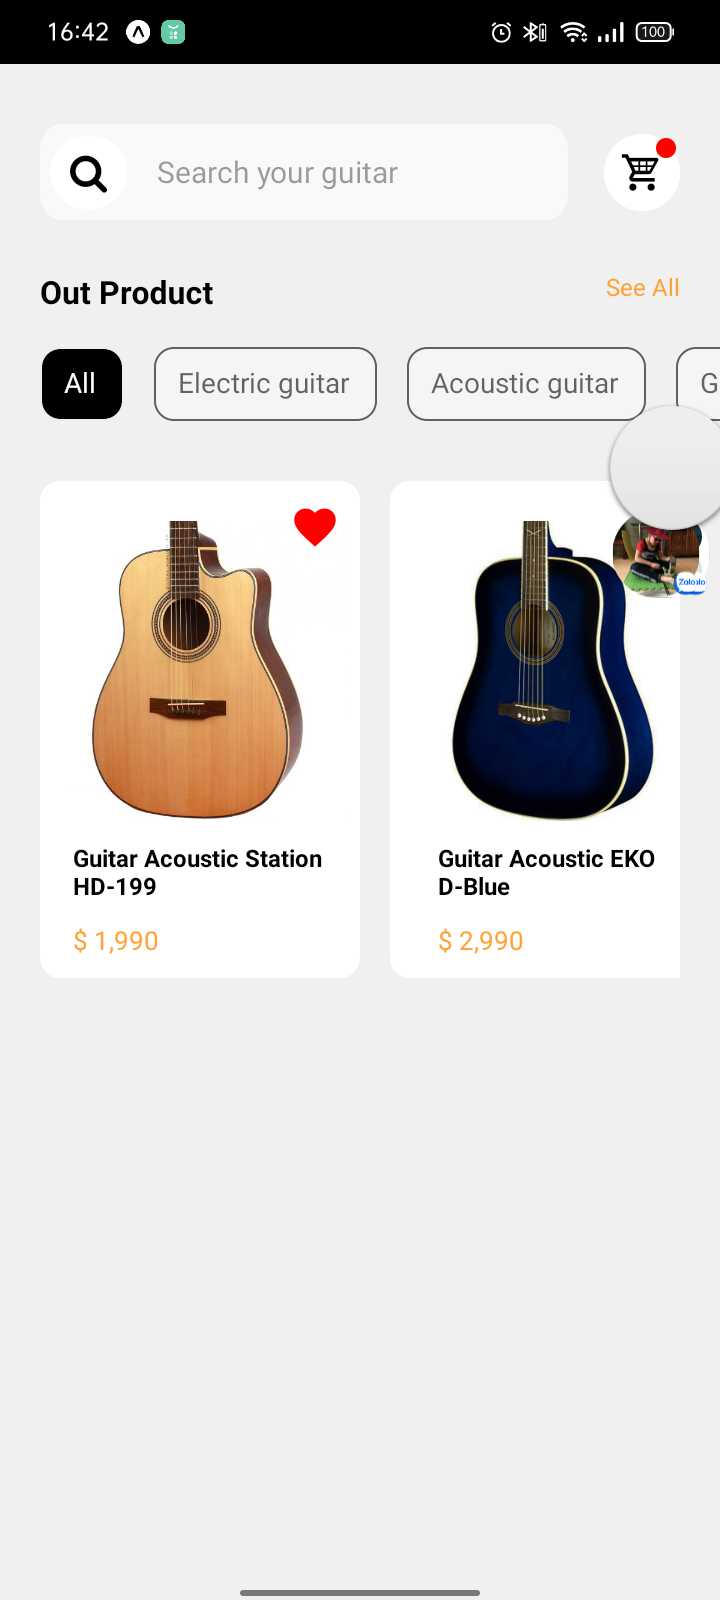
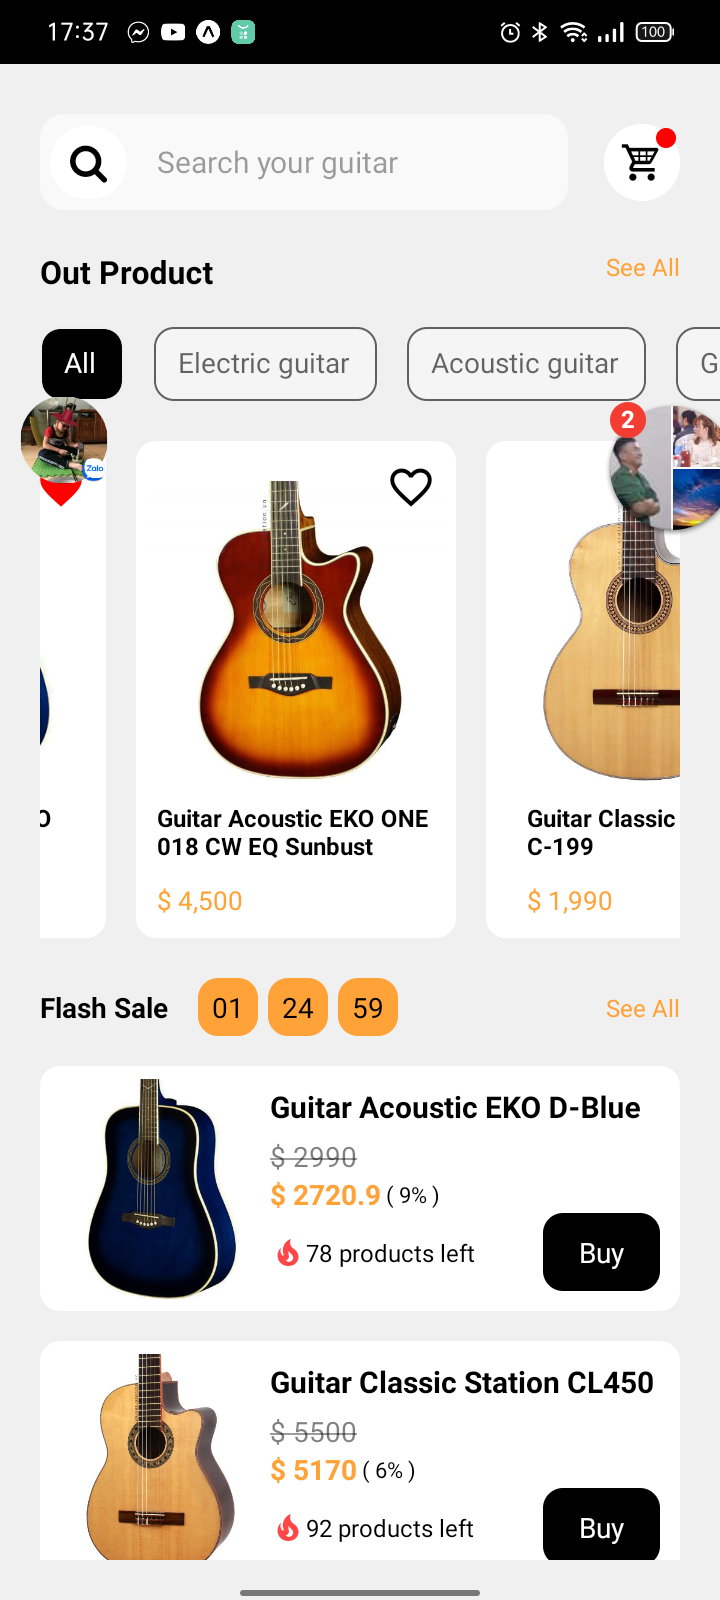
add flatlist Sale (finish screen3 75%)

diff --git a/src/components/ComponenHome.js b/src/components/ComponenHome.js
@@ -16,6 +16,11 @@ const ComponenHome = ({ navigation }) => {
     //
     let { z_item, listItem } = data;
 
+
+    let spConlai = () => {
+        return Math.floor(Math.random() * (100 - 50)) + 50;
+    };
+
     //
     useEffect(() => {
         setDbGuitar(listItem)
@@ -45,8 +50,7 @@ const ComponenHome = ({ navigation }) => {
                             str += key + "";
                         }
 
-                        if(x == 3)
-                        {
+                        if (x == 3) {
                             x = 0;
                         }
                         break;
@@ -59,8 +63,7 @@ const ComponenHome = ({ navigation }) => {
                             str += key + "";
                         }
 
-                        if(x == 3)
-                        {
+                        if (x == 3) {
                             x = 0;
                         }
                         break;
@@ -73,8 +76,7 @@ const ComponenHome = ({ navigation }) => {
                             str += key + "";
                         }
 
-                        if(x == 3)
-                        {
+                        if (x == 3) {
                             x = 0;
                         }
                         break;
@@ -83,7 +85,7 @@ const ComponenHome = ({ navigation }) => {
                         str += key;
                         break;
                 }
-                i++ ;
+                i++;
             }
         }
 
@@ -120,8 +122,45 @@ const ComponenHome = ({ navigation }) => {
                 }]}
 
                 >
-                    <IconMaterialCommunityIcons name={item.favourite ?'heart':'heart-outline' } size={25} color={item.favourite ?'#f00':'#000' } />
+                    <IconMaterialCommunityIcons name={item.favourite ? 'heart' : 'heart-outline'} size={25} color={item.favourite ? '#f00' : '#000'} />
                 </TouchableOpacity>
+            </View>
+        )
+    }
+
+    const renderItemSale = ({ item }) => {
+
+
+        if (!item.favourite) {
+            return (
+                <View></View>
+            )
+        }
+
+        return (
+            <View style={[styles.row, {
+                backgroundColor: '#fff',
+                padding: 5,
+                borderRadius: 10,
+                alignItems: 'center',
+                marginBottom: 15,
+            }]} >
+                <Image style={[, { width: 110, height: 110 }]} source={{ uri: item.img }} />
+                <View style={[styles.flex_1, {marginVertical:5}]} >
+                    <Text style={[, { fontWeight: 'bold', fontSize: 15 }]}  >{item.name}</Text>
+                    <Text style={[, { textDecorationLine: 'line-through', opacity: 0.5, marginTop: 5, }]} >$ {item.price}</Text>
+                    <View style={[styles.row, {}]} >
+                        <Text style={[, { color: color.color_main, fontWeight: 'bold' }]} >$ {item.price - (item.price * item.sale / 100)}</Text>
+                        <Text style={[, { fontSize: 11, marginTop: 2, }]} > ( {item.sale}% ) </Text>
+                    </View>
+                    <View style={[styles.row, { alignItems: 'center', }]} >
+                        <IconMaterialCommunityIcons style={[, {}]} name='fire' size={18} color={"#ff4747"} />
+                        <Text style={[styles.flex_1, { fontSize: 12 }]} >{spConlai()} products left</Text>
+                        <TouchableOpacity style={[, {}]} >
+                            <Text style={[, { backgroundColor: '#000', color: '#fff', padding: 10, paddingHorizontal: 18, borderRadius: 10, marginRight: 5 }]} >Buy</Text>
+                        </TouchableOpacity>
+                    </View>
+                </View>
             </View>
         )
     }
@@ -134,7 +173,7 @@ const ComponenHome = ({ navigation }) => {
             <StatusBar />
             {/*  */}
             <View style={[styles.row, {
-                marginTop: 10,
+                marginTop: 5,
                 alignItems: 'center',
             }]}  >
                 <View style={[styles.row, styles.flex_1, {
@@ -167,7 +206,7 @@ const ComponenHome = ({ navigation }) => {
             {/*  */}
             <View style={[, {
                 // backgroundColor:'#0ff',
-                marginTop: 20,
+                marginTop: 15,
             }]} >
                 <View style={[styles.row, {
                     justifyContent: 'space-between',
@@ -191,9 +230,8 @@ const ComponenHome = ({ navigation }) => {
             </View>
 
             {/* list item */}
-
             <View style={[styles.row, {
-                marginTop: 30,
+                marginTop: 20,
             }]} >
                 {/* item */}
                 {/* <View style={[, {
@@ -238,8 +276,53 @@ const ComponenHome = ({ navigation }) => {
 
             </View>
 
+            {/*  */}
+            <View style={[styles.flex_1, {
+                marginTop: 20,
+            }]} >
+                <View style={[styles.row, {
+                    alignItems: 'center',
+                    marginBottom: 15,
+                }]} >
+                    <Text style={[, { fontWeight: 'bold', marginRight: 15 }]} >Flash Sale</Text>
+                    <Text style={[, { padding: 5, paddingHorizontal: 7, backgroundColor: color.color_main, marginRight: 5, borderRadius: 10, }]} >01</Text>
+                    <Text style={[, { padding: 5, paddingHorizontal: 7, backgroundColor: color.color_main, marginRight: 5, borderRadius: 10, }]} >24</Text>
+                    <Text style={[, { padding: 5, paddingHorizontal: 7, backgroundColor: color.color_main, marginRight: 5, borderRadius: 10, }]} >59</Text>
+                    <Text style={[styles.flex_1, { textAlign: 'right', fontSize: 12, color: color.color_main }]} >See All</Text>
+                </View>
 
+                {/* <View style={[styles.row, {
+                    backgroundColor: '#fff',
+                    padding: 5,
+                    borderRadius: 10,
+                    alignItems: 'center',
+                    marginTop: 15,
+                }]} >
+                    <Image style={[, { width: 110, height: 110 }]} source={{ uri: z_item.img }} />
+                    <View style={[styles.flex_1, {}]} >
+                        <Text style={[, { fontWeight: 'bold', fontSize: 15 }]}  >{z_item.name}</Text>
+                        <Text style={[, { textDecorationLine: 'line-through', opacity: 0.5, marginTop: 5, }]} >$ {z_item.price}</Text>
+                        <View style={[styles.row, {}]} >
+                            <Text style={[, { color: color.color_main, fontWeight: 'bold' }]} >$ {z_item.price - (z_item.price * z_item.sale / 100)}</Text>
+                            <Text style={[, { fontSize: 11, marginTop: 2, }]} > ( {z_item.sale}% ) </Text>
+                        </View>
+                        <View style={[styles.row, { alignItems: 'center', }]} >
+                            <IconMaterialCommunityIcons style={[, {}]} name='fire' size={18} color={"#ff4747"} />
+                            <Text style={[styles.flex_1, { fontSize: 12 }]} >{spConlai()} products left</Text>
+                            <TouchableOpacity style={[, {}]} >
+                                <Text style={[, { backgroundColor: '#000', color: '#fff', padding: 10, paddingHorizontal: 18, borderRadius: 10, marginRight: 5 }]} >Buy</Text>
+                            </TouchableOpacity>
+                        </View>
+                    </View>
+                </View> */}
+                <FlatList
+                    data={dbGuitar}
+                    keyExtractor={item => item.id}
+                    renderItem={renderItemSale}
+                />
 
+            </View>
+            
 
             {/* <Text>ComponenHome</Text>
             <Button title=' next ' onPress={() => navigation.navigate('ComponentDetail')} /> */}
@@ -247,6 +330,6 @@ const ComponenHome = ({ navigation }) => {
         </View>
     )
 }
-///                       style={[  ,{}]}               ///
+///                        style={[  ,{}]}              ///
 
 export default ComponenHome;

diff --git a/src/database/data.js b/src/database/data.js
@@ -12,7 +12,7 @@ let listItem = [
         id:1,
         name:'Guitar Acoustic Station HD-199',
         price:1990,
-        favourite:true,
+        favourite:false,
         sale:30,
         img:'https://guitar.station.vn/wp-content/uploads/2015/11/HD-300-Top-vertical-Copy-2-500x500.jpg',
     },
@@ -60,7 +60,7 @@ let listItem = [
         id:7,
         name:'Guitar Acoustic Epiphone DR-100-Natural',
         price:3190,
-        favourite:true,
+        favourite:false,
         sale:15,
         img:'https://guitar.station.vn/wp-content/uploads/2018/01/dan-guitar-acoustic-epiphone-dr100-chinh-hang-1-360x360.jpg',
     },
@@ -92,7 +92,7 @@ let listItem = [
         id:11,
         name:'Guitar Acoustic EKO-EQ-Black-OM',
         price:3990,
-        favourite:true,
+        favourite:false,
         sale:20,
         img:'https://guitar.station.vn/wp-content/uploads/2018/03/EKO-A-EQ-BLACK-OM-TOP-Copy-500x500.png',
     },
